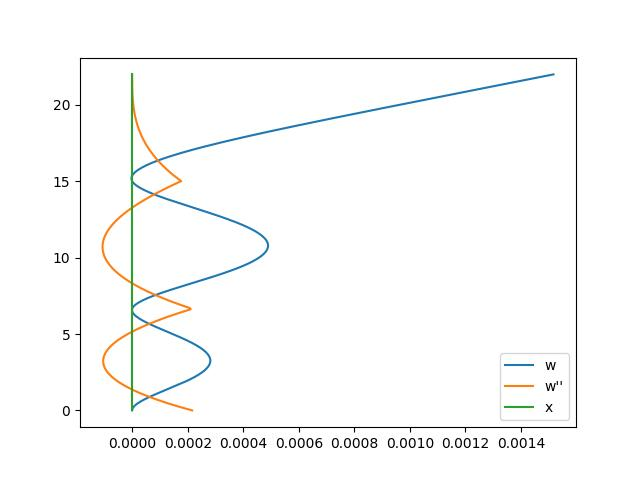
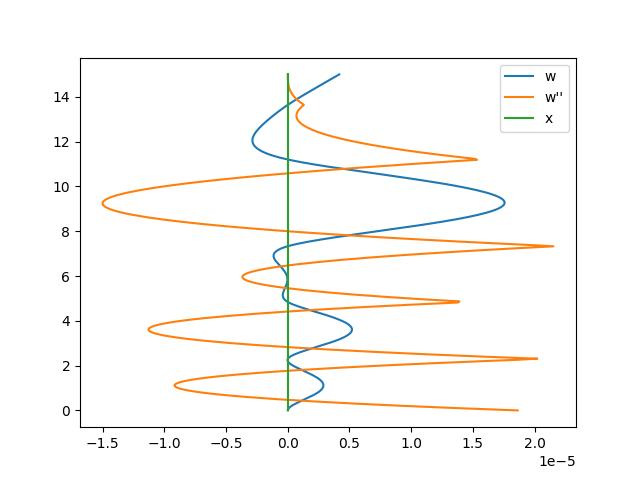
1. fix moment 2. equal destance using float numbers

diff --git a/ground_anchoring_controller/api/euller_beam.py b/ground_anchoring_controller/api/euller_beam.py
@@ -15,62 +15,95 @@ class clBeam():
 		self.E = 30   #steel elast modul (N/mm^2)
 		self.F = 9.8*1000*math.sin(math.radians(deg))  #point load (N)
 		self.E_Ic = (self.I * self.E)*(1000**2)
-		
+#  kg*m^2/s^2
+
+	def get_E_Ic(self):
+		return self.E_Ic
+
 	def w(self, x, c_1, c_2, c_3, c_4):
 		return -(self.F*x**5)/(2*3*4*5*self.E_Ic) + (self.F*self.h*x**4)/(2*3*4*self.E_Ic) + c_1*x**3 + c_2*x**2 + c_3*x + c_4
+
 	def bb(self,x):
 		return -(self.F*(x**5))/(2*3*4*5*self.E_Ic) + (self.F*self.h*(x**4))/(2*3*4*self.E_Ic)
+
 	def bb1(self,x):
 		return -(self.F*(x**4))/(2*3*4*self.E_Ic) + (self.F*self.h*(x**3))/(2*3*self.E_Ic)
+
 	def bb2(self,x):
 		return -(self.F*(x**3))/(2*3*self.E_Ic) + (self.F*self.h*(x**2))/(2*self.E_Ic)
+
 	def bb3(self,x):
 		return -(self.F*(x**2))/(2*self.E_Ic) + (self.F*self.h*x)/(self.E_Ic)
+
 	def aa(self,x,k):
-		if k==0:
-			return 1
-		if k==1:
-			return x
-		if k==2:
-			return x**2
-		if k==3:
-			return x**3
-		return 1/0
+		if k in [0, 1, 2 , 3]:
+			return x**k
+		raise ValueError
+
+		# if k==0:
+		# 	return 1
+		# if k==1:
+		# 	return x
+		# if k==2:
+		# 	return x**2
+		# if k==3:
+		# 	return x**3
+
 	def aa1(self,x,k):
-		if k==0:
+		if k == 0:
 			return 0
-		if k==1:
-			return 1
-		if k==2:
-			return 2*x
-		if k==3:
-			return 3*(x**2)
-		return 1/0
+		if k in [1, 2 , 3]:
+			return k*x**(k - 1)
+		raise ValueError
+
+		# if k==0:
+		# 	return 0
+		# if k==1:
+		# 	return 1
+		# if k==2:
+		# 	return 2*x
+		# if k==3:
+		# 	return 3*(x**2)
+		# return 1/0
+
 	def aa2(self,x,k):
-		if k==0:
+		if k in [0, 1]:
 			return 0
-		if k==1:
-			return 0
-		if k==2:
-			return 2
-		if k==3:
-			return 6*x
-		return 1/0
+		if k in [2 , 3]:
+			return (k-1)*k*x**(k - 2)
+		raise ValueError
+		# if k==0:
+		# 	return 0
+		# if k==1:
+		# 	return 0
+		# if k==2:
+		# 	return 2
+		# if k==3:
+		# 	return 6*x
+		# return 1/0
 	def aa3(self,x,k):
-		if k==0:
+		if k in [0, 1, 2]:
 			return 0
-		if k==1:
-			return 0
-		if k==2:
-			return 0
-		if k==3:
+		if k ==3:
 			return 6
-		return 1/0
+		raise ValueError
+		
+		# if k==0:
+		# 	return 0
+		# if k==1:
+		# 	return 0
+		# if k==2:
+		# 	return 0
+		# if k==3:
+		# 	return 6
+		# return 1/0
+
 	def ww(self,x,vc):
 		w=self.bb(x)
 		for k in range(4):
 			w+=vc[k]*self.aa(x,k)
 		return w
+
 	def ww2(self,x,vc):
 		w=self.bb2(x)
 		for k in range(4):
@@ -181,6 +214,7 @@ class clBeam():
 			self.bTheLastAnchor_h=(abs(self.h-v_x_anchor[n-1])<0.01)
 		if self.bTheLastAnchor_h:
 			self.nn-=1#no need the last interval
+
 	def iInterval_get(self,x,v_x_anchor):
 		#use after self.nn_make(v_x_anchor)
 		i_anchor=0
@@ -191,6 +225,7 @@ class clBeam():
 		if self.bTheLastAnchor_h:
 			return i_anchor-1
 		return i_anchor
+
 	def xy_get(self,v_x_anchor,nPoints=300):
 		vvc = self.vvc_get(v_x_anchor)
 		x_data = np.linspace(0,self.h,nPoints)
@@ -235,7 +270,7 @@ def start_euller_beam(h, deg, anchors, save_plot=True):
     anchors.sort()
     Beam=clBeam(h, deg)
     x_data,y_data,y2_data=Beam.xy_get(anchors)
-    max1 = find_the_high_moment(y2_data)
+    max1 = find_the_high_moment(y2_data, Beam.get_E_Ic())
     
     if save_plot:
         plt.close()
@@ -249,15 +284,15 @@ def start_euller_beam(h, deg, anchors, save_plot=True):
 
     return max1
     
-def find_the_high_moment(y2_data):
+def find_the_high_moment(y2_data, E_Ic):
     max1 = y2_data[0]
-    
-    for moment in y2_data:
-        if abs(moment) > max1:
-            max1 = abs(moment)
 
-    return max1
+    for w2_x in y2_data:
+        if abs(w2_x) > max1:
+            max1 = abs(w2_x)
+
+    return round(abs(-E_Ic*max1), 2)
     
-    
+
 
 # start_euller_beam(h=15 ,anchors = [2,4,6,9,14] )

diff --git a/ground_anchoring_controller/api/equalDistance1d.py b/ground_anchoring_controller/api/equalDistance1d.py
@@ -1,20 +1,19 @@
 
 
-def createEqualDistance1d(height,numberOfAnchors):
-    
+def createEqualDistance1d(height, numberOfAnchors):
     anchors =[]
     y1 = 0
+
     if(numberOfAnchors ==0):
         return anchors
-    if (height > numberOfAnchors):
-        y2 = (height/(numberOfAnchors+1))
-    elif (height <= numberOfAnchors):
-        y2=1  
-    y1 = round(y2)
+
+    gap = (height/(numberOfAnchors+1))
+    y1 = round(gap, 2)
     id = 1  
+
     while (height >= y1 and numberOfAnchors >= id):  
         anchors.append({'id' :id ,'x' :0 , 'y' :y1})          
         id+=1
-        y1=round(y2 * id)
-      
+        y1=round(gap * id, 2)
+
     return anchors 

diff --git a/ground_anchoring_controller/api/monteCarlo1d.py b/ground_anchoring_controller/api/monteCarlo1d.py
@@ -12,7 +12,7 @@ import random
 def roll_dice (height ,anchors_1 ):    
     x = 0
     # y = random.randint(1, height-1)
-    y= random.uniform(1, height-1)
+    y= round(random.uniform(0.1, height), 2)
 
     # Determining if the anchor is exist
     if(len(anchors_1) > 0):
